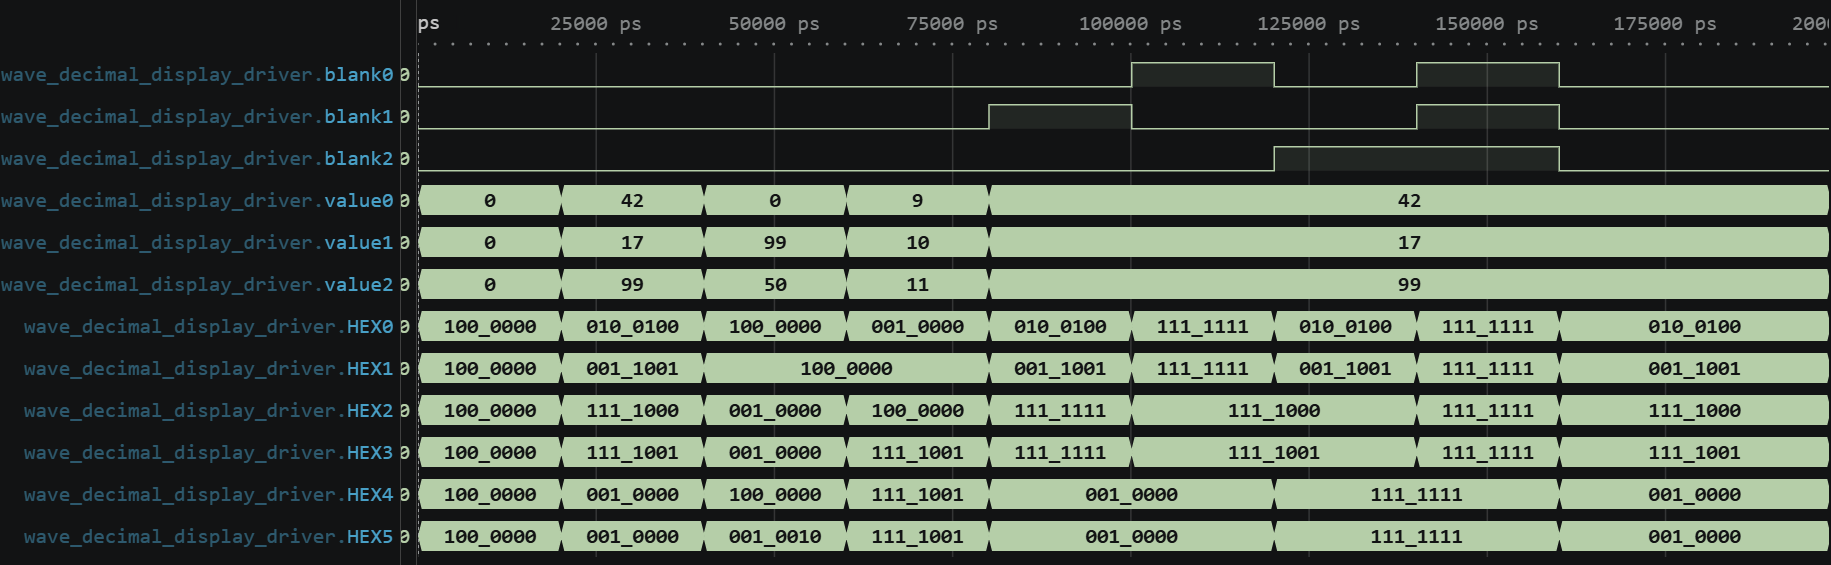
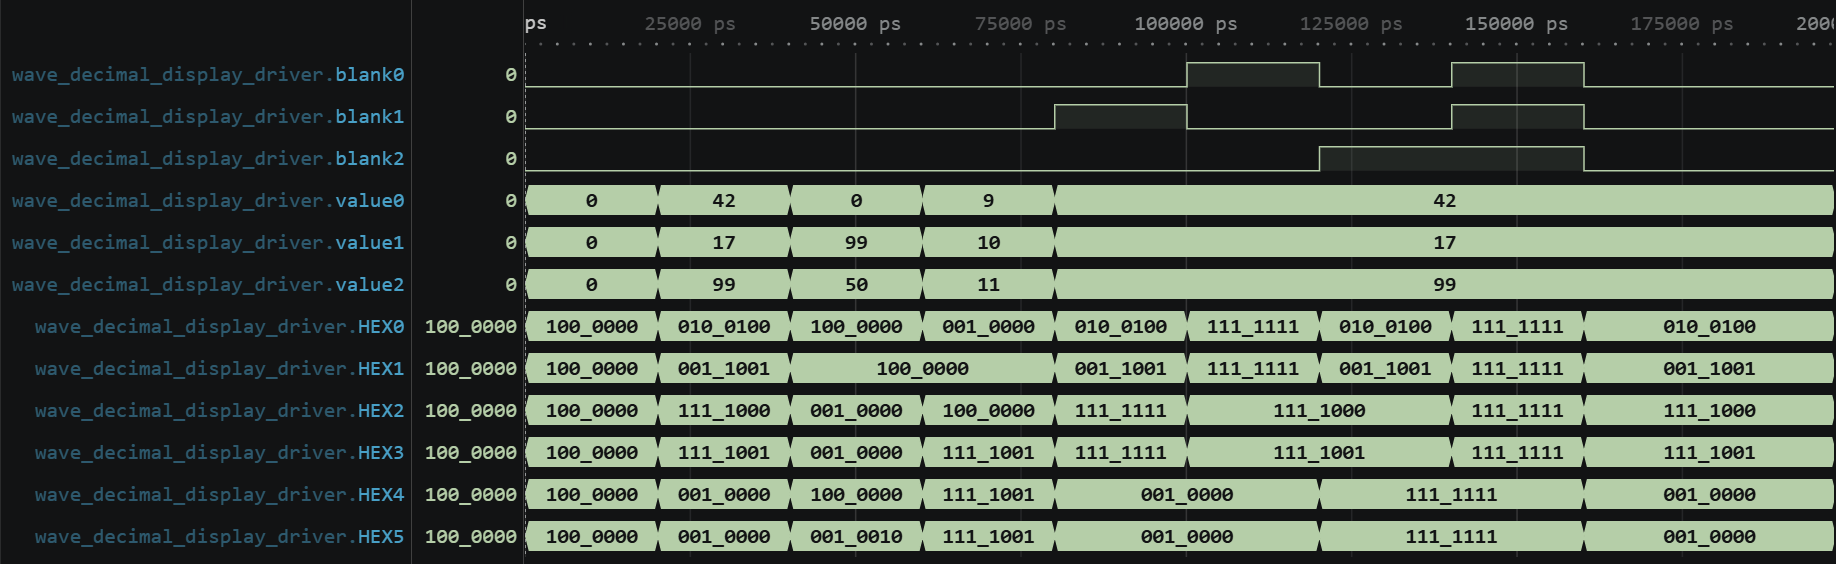
User Top Template added to RTL Top DE1-SOC added to RTL User Top Watch V1 added and completed Report updated

diff --git a/docs/reports/assignment1_report/assignment1_report.tex b/docs/reports/assignment1_report/assignment1_report.tex
@@ -305,6 +305,22 @@
 		\item  When \textbf{blank} is asserted the corresponding \textbf{HEX} displays are turned off indicated by the output \textbf{111\_1111}.
 	\end{itemize}
 	
+	\subsection{User Top Watch}
+	
+	\begin{figure}[H]
+		\centering
+		\includegraphics[width=\linewidth, height=0.1\textheight]{user_top_watch_v1_waveform}
+		\caption{Measured waveform for decimal\_display\_driver.sv}
+	\end{figure}
+	
+	The waveform displays inputs \textbf{clk}, and outputs \textbf{seconds\_disp}, \textbf{minutes\_disp}, and \textbf{hours\_disp}. We observe that:
+	
+	\begin{itemize}[noitemsep]
+		\item \textbf{seconds\_disp} increments every \textbf{seconds\_tick}.
+		\item \textbf{minutes\_disp} increments when \textbf{seconds\_disp} wraps and \textbf{seconds\_tick} asserts.
+		\item \textbf{hours\_disp} does not display increment however it does increment when \textbf{minutes\_disp} and \textbf{seconds\_disp} wraps and \textbf{seconds\_tick} asserts.
+	\end{itemize}
+	
 	\section{Report 3}
 	\begin{figure}[H]
 		\centering